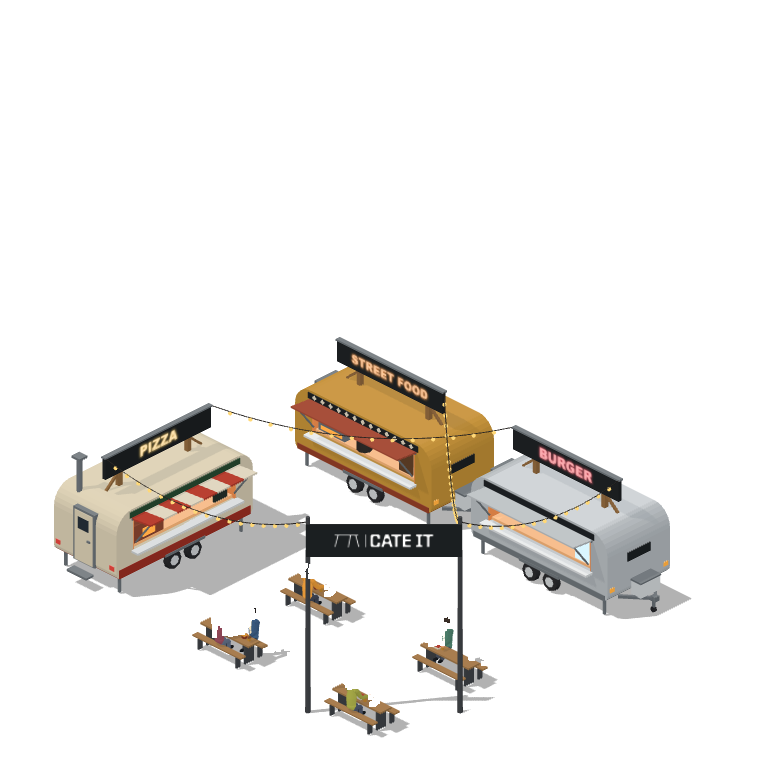
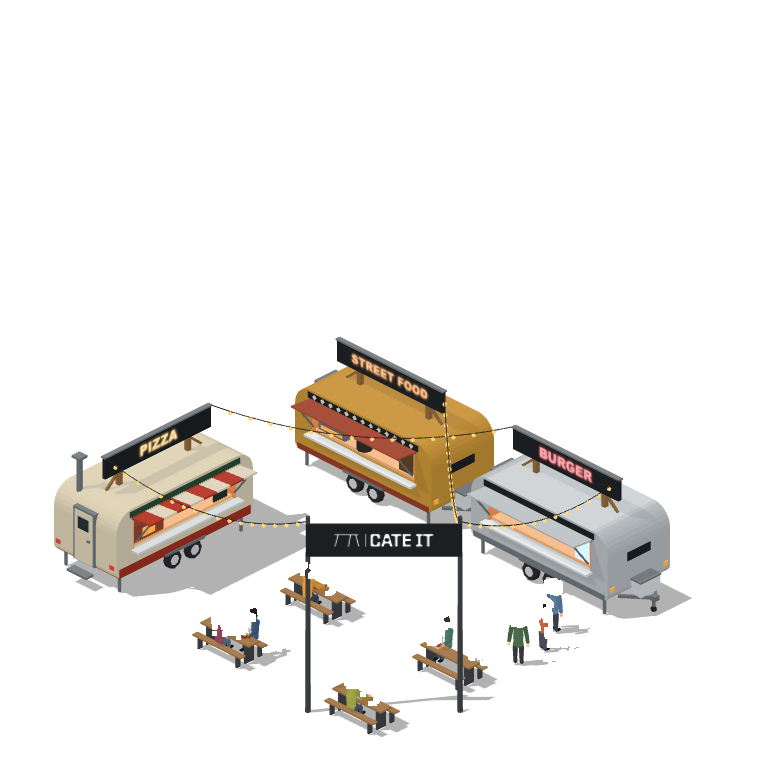
Food truck square: a small queue of three at the burger hatch
Three standing guests (no food yet) on tiles (7,2) and (7,3), which are taken out of the walk map; the street food
table's stand tile moves to (6,3) (its seat stays). Two of them join the guests' ambient loop.

diff --git a/lib/city/models/cateItSquareStates.ts b/lib/city/models/cateItSquareStates.ts
@@ -293,12 +293,16 @@ function addHalos(g: THREE.Group, material: THREE.SpriteMaterial): void {
 
 /** Guests at the tables, baked into the square's sprite: seat (plan tiles), facing (0 = south, 180 = north), their food,
  *  and clothes. They keep clear of the three seats the visitor's avatar uses (SEATS). */
-type Guest = { at: [number, number]; yawDeg: number; meal: Truck; move: 'bite' | 'look' | 'chat'; skin: string; hair: string; jacket: string; tee: string; jeans: string };
+type Guest = { at: [number, number]; yawDeg: number; meal: Truck; move: 'bite' | 'look' | 'chat'; stand?: boolean; skin: string; hair: string; jacket: string; tee: string; jeans: string };
 export const GUESTS: Guest[] = [
   { at: [6.7, 4.25], yawDeg: 0, meal: 'pizza', move: 'bite', skin: '#c58c69', hair: '#2b211b', jacket: '#3f6b5a', tee: '#e9e4d8', jeans: '#3a3f4a' },
   { at: [4.0, 4.75], yawDeg: 180, meal: 'african', move: 'look', skin: '#7a4e35', hair: '#1c1714', jacket: '#c9852f', tee: '#f1ece2', jeans: '#2f3440' },
   { at: [4.0, 6.75], yawDeg: 180, meal: 'burger', move: 'chat', skin: '#e6b79a', hair: '#b07a3e', jacket: '#7b3b4a', tee: '#e9e4d8', jeans: '#4a5568' },
   { at: [4.3, 6.25], yawDeg: 0, meal: 'african', move: 'bite', skin: '#5e3b28', hair: '#151110', jacket: '#2f4c6e', tee: '#d9c9a8', jeans: '#2b2f36' },
+  // a small queue at the burger hatch's east end (Gustav, 2026-10-21), standing on tile (7, 2) and (7, 3)
+  { at: [7.2, 2.35], yawDeg: 180, meal: 'burger', move: 'look', stand: true, skin: '#c99a7a', hair: '#3b2a20', jacket: '#4d6b8a', tee: '#efe9dd', jeans: '#2f3440' },
+  { at: [7.5, 2.9], yawDeg: 170, meal: 'burger', move: 'chat', stand: true, skin: '#6d4430', hair: '#141110', jacket: '#b5533a', tee: '#e9e4d8', jeans: '#3b4252' },
+  { at: [7.55, 3.5], yawDeg: 215, meal: 'burger', move: 'look', stand: true, skin: '#e4b596', hair: '#8a5a2b', jacket: '#3f5d3f', tee: '#f1ece2', jeans: '#2b2f36' },
   { at: [7.0, 6.75], yawDeg: 180, meal: 'burger', move: 'look', skin: '#d9a07c', hair: '#5a3b26', jacket: '#8c8f3a', tee: '#efe9dd', jeans: '#3b4252' },
 ];
 
@@ -329,7 +333,8 @@ function createGuest(guest: Guest, options: Options, u = 0): THREE.Group {
   person.position.set(x, 0.02, z);
   person.rotation.y = THREE.MathUtils.degToRad(guest.yawDeg);
   const rig = person.userData.avatar as AvatarRig;
-  poseAvatarSit(rig, 0.02 + BENCH_TOP);
+  if (!guest.stand) poseAvatarSit(rig, 0.02 + BENCH_TOP);
+  else rig.rest();
   const w = Math.sin(2 * Math.PI * u);
   if (guest.move === 'bite') {
     const a = Math.max(0, w) ** 2;
@@ -343,9 +348,11 @@ function createGuest(guest: Guest, options: Options, u = 0): THREE.Group {
     rig.bones.head?.rotateZ(0.12 * w);
   }
   person.updateMatrixWorld(true);
+  g.add(person);
+  if (guest.stand) return g;   // in the queue: no food yet
   const meal = createSquareMeal(guest.meal, options);
   meal.position.set(x, 0, z + (guest.yawDeg === 180 ? -0.22 : 0.22));
-  g.add(person, meal);
+  g.add(meal);
   return g;
 }
 

diff --git a/lib/city/buildingInteriors.ts b/lib/city/buildingInteriors.ts
@@ -69,14 +69,14 @@ const VALTECH_OFFICE: BuildingInterior = {
 
 // The food truck square, 8 x 7 (lib/city/models/cateItSquareStates.ts): rows 0-1 the street food and burger trailers, the
 // pizza trailer in columns 0-1 of rows 3-6, four beer tables (tiles 3-4 and 6-7 of rows 4 and 6). Rows 2-3 run along the
-// back hatches, row 5 to the pizza hatch (it faces (2,5)), column 5 is the aisle from the way in. No roof to take off: the plot counts as "inside" only so its stand tiles open their
+// back hatches, row 5 to the pizza hatch (it faces (2,5)), column 5 is the aisle from the way in. Tiles (7,2) and (7,3) hold the queue at the burger hatch. No roof to take off: the plot counts as "inside" only so its stand tiles open their
 // cards. Way in and out: the street tile south of (5,6).
 const CATE_IT_SQUARE: BuildingInterior = {
   map: [
     "########",
     "########",
-    "QQQQQQQQ",
-    "##QQQQQQ",
+    "QQQQQQQ#",
+    "##QQQQQ#",
     "##Q##Q##",
     "##QQQQQQ",
     "##Q##Q##",
@@ -87,7 +87,7 @@ const CATE_IT_SQUARE: BuildingInterior = {
   entrance: { outside: [5, 7], inside: [5, 6] },
   standSpots: {
     "hatch-african": [2.5, 2.5], "hatch-burger": [6.5, 2.5], "hatch-pizza": [2.5, 5.5],
-    "table-burger": [4.5, 3.5], "table-pizza": [3.5, 5.5], "table-african": [7.5, 3.5],
+    "table-burger": [4.5, 3.5], "table-pizza": [3.5, 5.5], "table-african": [6.5, 3.5],
   },
 };
 

diff --git a/lib/city/buildings.ts b/lib/city/buildings.ts
@@ -501,7 +501,7 @@ export const BUILDINGS: Record<string, BuildingDefinition> = {
     // south sprite and renders them per frame; paused while the visitor sits (the seated frames are whole)
     ambient: {
       sheet: "/game/pogicity/Building/landmark/cate-it-square-guests_south.png",
-      frames: 12, frameWidth: 284, frameHeight: 146, x: 210, y: 562, fps: 4,
+      frames: 12, frameWidth: 392, frameHeight: 144, x: 210, y: 562, fps: 4,
     },
     // Lit at night: the hatches, the neon food names, the fairy lights across the trucks, the marker lights and the banner
     // (export_square.sh lights pass); two frames, every third bulb dimmer on the second, so the strings twinkle slowly
